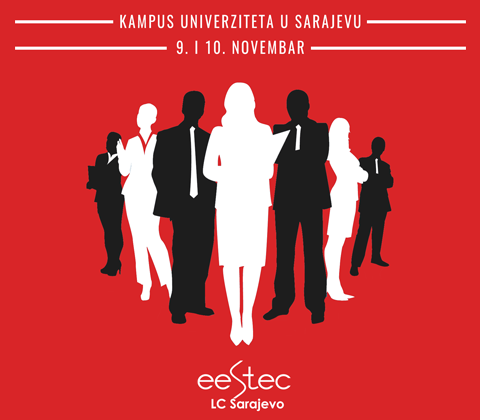
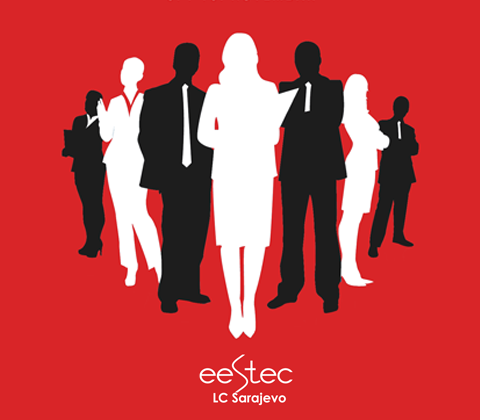
baner edit

Changed region(s): [[0.0312, 0.031, 0.9688, 0.9905]]

diff --git a/css/main.css b/css/main.css
@@ -749,16 +749,16 @@ div.logo a {
 .header-text
 {
 /*    background-color: #D92528;*/
-    width:55%;
+    width:50%;
     float:left;
 /*    border:1px solid black;*/
     margin-left:45px;
-    margin-top:60px;
+    margin-top:20px;
 }
 
 .header-pic
 {
-    width:40%;
+    width:43%;
     height:100%;
     float:right;
     overflow: hidden;
@@ -774,6 +774,7 @@ div.logo a {
     text-transform: uppercase;
     font-weight: 700;
     font-size: 42px;
+    margin-bottom: 50px;
 }   
 
 .header-title-small
@@ -781,6 +782,7 @@ div.logo a {
     color:white;
     font-size: 18px;
     width:70%;
+    margin-bottom: 20px;
     font-weight: 100;
 }
 
@@ -791,13 +793,13 @@ div.logo a {
     border: none;
     color: #D92528;
     padding:5px 25px;
-    margin-top:30px;
+    margin-top:35px;
     font-weight: 400;
 }
 
 .button-oprojektu:hover{
-    font-weight: 500;
-    padding-right: 24px;
+    font-weight: 600;
+    padding-right: 25px;
 }
 
 @media(max-width : 980px )
@@ -825,7 +827,7 @@ div.logo a {
     .header-text
     {
         width:90%;
-        margin-top:90px;
+        margin-top:20px;
     }
     
     .header-title
@@ -850,7 +852,7 @@ div.logo a {
     {
         width:80%;
         margin-left:25px;
-        margin-top:50px;
+        margin-top:10px;
     }
     
     .header-row

diff --git a/partials/baner.html b/partials/baner.html
@@ -1,9 +1,9 @@
 	<div class="header-row">
         <div class="header-text">
             <div class="header-title">Jobfair '15<br/>Iskoristi svoju šansu!</div>
-            <div class="header-title-small"><br/>Sajam zapošljavanja za studente i diplomce tehničko-tehnoloških fakulteta i ekonomije</div>
-            <br/><br/>
+            <div class="header-title-small">Sajam zapošljavanja za studente i diplomce tehničko-tehnoloških fakulteta i ekonomije</div>
+            <div class="header-title-small">Kampus Univerziteta u Sarajevu<br/>9. i 10. novembar</div>
             <input type="button" value="O projektu" class="button-oprojektu" onclick="poziv('partials/ojobfairu-full.php')">
         </div>
-        <div class="header-pic"><img alt="" src="img/baner.png"></div>
+        <div class="header-pic"><img height=410px alt="" src="img/baner.png"></div>
 	</div>  
